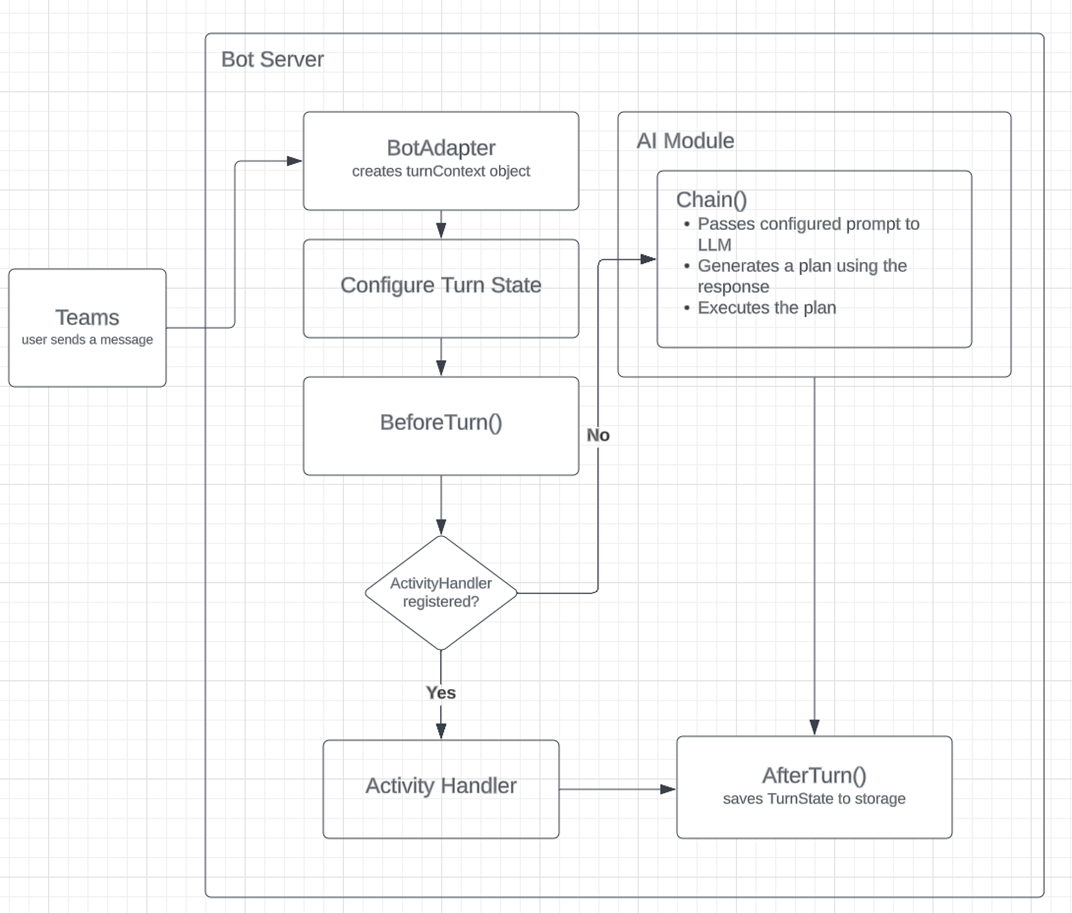
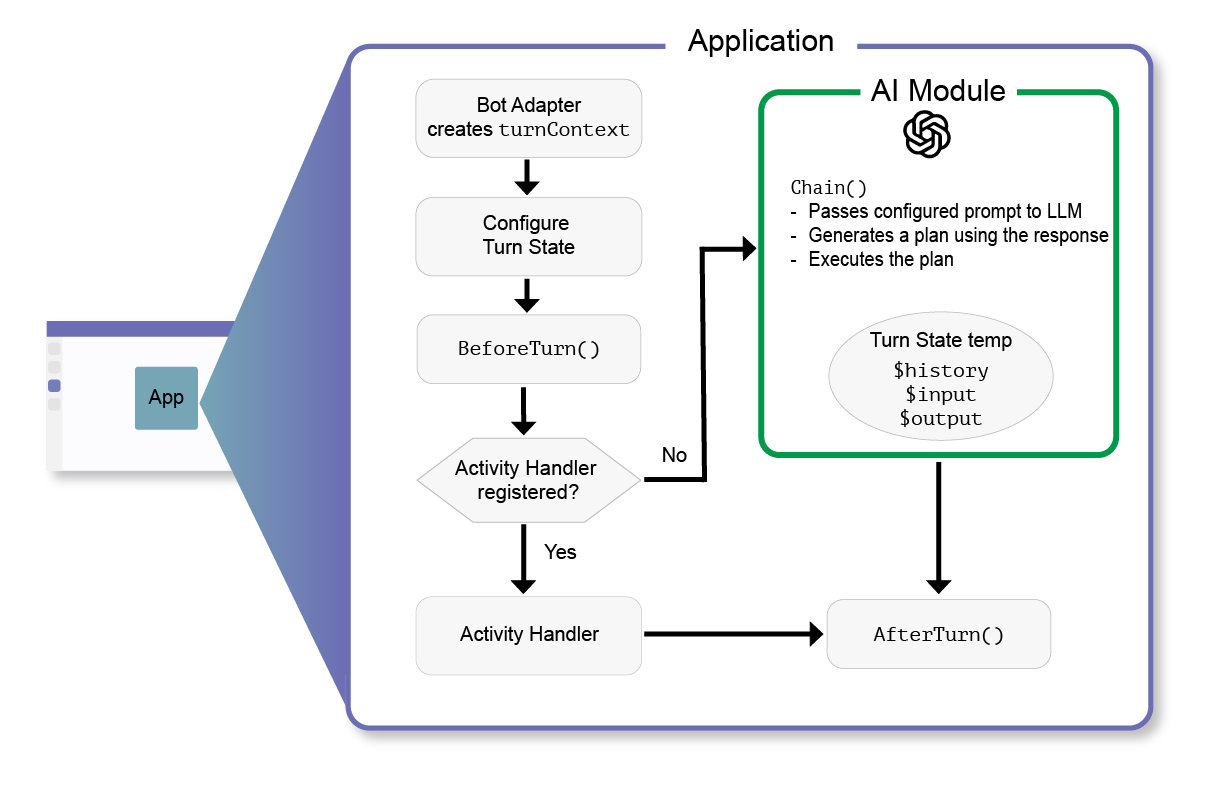
Move js files and edit dotnet

diff --git a/getting-started/dotnet/00.MIGRATION.md b/getting-started/dotnet/00.MIGRATION.md
@@ -1,67 +1,66 @@
 # Migrating from Botbuilder SDK to Teams AI.
 
-Previously, users developing bots for Teams and Microsoft 365 apps had to use the BotBuilder SDK directly. This SDK is designed to help you build bots that can interact with Teams and Microsoft 365 apps.
+Previously, users developing bots for Teams and Microsoft 365 apps used the BotBuilder SDK. The Teams-AI SDK is designed to help you build bots that can interact with Teams and Microsoft 365 apps.
 
-While one of the exciting features of this SDK is the AI support that customers will be able to migrate to, your team's first goals might be simply update your current bot without AI.
+While one of the exciting features of this SDK is the AI support that customers will be able to migrate to, your team's first goals might be simply to update your current bot without AI.
+
+> Please note: the formatting below does not necessarily follow traditional dotnet conventions. This was purposefully done to instantly viewing the differences easier.
 
 ### New activity handler class, Old activity handling method
 
 In the BotFramework SDK the Bot class extended the `TeamsActivityHandler` class. In Teams AI you will replace that with the `Application<TurnState, TurnStateManager>` class.
 
-_Old:_
-```C#
-public class EchoBot : TeamsActivityHandler { }
+```diff
+- public class EchoBot : TeamsActivityHandler { }
+
++ public class EchoBot : Application<TurnState, TurnStateManager> {
++
++    public EchoBot(ApplicationOptions<TurnState, TurnStateManager> options) : base(options) {}
++ }
 ```
 
-_New:_
-```C#
-public class EchoBot : Application<TurnState, TurnStateManager> {
+> The `TurnState` and `TurnStateManager` are classes that make up the turn state infrastructure. The generic types in the `Application` class allow users to customize the shape of the turn state.
 
-    public EchoBot(ApplicationOptions<TurnState, TurnStateManager> options) : base(options) {}
-
-}
-```
-
->The `TurnState` and `TurnStateManager` are classes that make up the turn state infrastructure. The generic types in the `Application` class allow users to customize the shape of the turn state.
-
-The activity handling method is the same for both `TeamsActivityHandler` and `Application` class, except for a few nuances. 
+The activity handling method is the same for both (previous) `TeamsActivityHandler` and (new) `Application` class, except for a few nuances. See below for more.
 
 #### New turn state parameter:
 
-_Old:_
-```C#
-protected virtual Task OnMessageActivityAsync(ITurnContext<IMessageActivity> turnContext, CancellationToken cancellationToken);
+`TState turnState` has been added as a parameter to `OnMessageActivityAsync`.
+
+```diff
+protected virtual Task OnMessageActivityAsync(
+    ITurnContext<IMessageActivity> turnContext,
++   TState turnState,
+    CancellationToken cancellationToken);
 ```
 
-_New:_
-```C#
-protected virtual Task OnMessageActivityAsync(ITurnContext<IMessageActivity> turnContext, TState turnState, CancellationToken cancellationToken);
+#### Drop the `Teams` prefix:
+
+`onTeamsChannelCreatedAsync` is modified to `OnChannelCreatedAsync`.
+
+```diff
+protected virtual Task
+-    OnTeamsChannelCreatedAsync(
++    OnChannelCreatedAsync(
+        ChannelInfo channelInfo,
+        TeamInfo teamInfo,
+        ITurnContext<IConversationUpdateActivity> turnContext,
+        TState turnState,
+        CancellationToken cancellationToken);
 ```
 
-#### Dropped the `Teams` prefix:
+#### Reorder parameters for consistency:
 
-_Old:_
-```C#
-protected virtual Task OnTeamsChannelCreatedAsync(ChannelInfo channelInfo, TeamInfo teamInfo, ITurnContext<IConversationUpdateActivity> turnContext, TState turnState, CancellationToken cancellationToken);
+> Note that in `OnSearchInvokeAsync`, the parameter `SearchInvokeValue: invokeValue` has been moved to the first parameter, to precede `ITurnContext<IInvokeActivity>: turnContext`. `CancellationToken cancellationToken` remains as the last parameter.
+
+```diff
+protected virtual Task<SearchInvokeResponse> OnSearchInvokeAsync(
+      SearchInvokeValue invokeValue,
+      ITurnContext<IInvokeActivity> turnContext,
++     TState turnState,
+      CancellationToken cancellationToken);
 ```
 
-_New:_
-```C#
-protected virtual Task OnChannelCreatedAsync(ChannelInfo channelInfo, TeamInfo teamInfo, ITurnContext<IConversationUpdateActivity> turnContext, TState turnState, CancellationToken cancellationToken);
-```
+For every activity handler method in the BotFramework SDK, users can replace it with a corresponding method in the `Application` class.
 
-#### Reordering parameters for consistency:
-
-_Old:_
-```C#
-protected virtual Task<SearchInvokeResponse> OnSearchInvokeAsync(ITurnContext<IInvokeActivity> turnContext, SearchInvokeValue invokeValue, CancellationToken cancellationToken);
-```
-
-_New:_
-```C#
-protected virtual Task<SearchInvokeResponse> OnSearchInvokeAsync(SearchInvokeValue invokeValue, ITurnContext<IInvokeActivity> turnContext, TState turnState, CancellationToken cancellationToken);
-```
-
-For every activity handler method in the BotFramework SDK users can replace it with a correspond method in the `Application` class.
-
-This is all it takes to port over to Teams AI.
+This is all it takes to port over to Teams AI!

diff --git a/getting-started/dotnet/01.CONCEPTS.md b/getting-started/dotnet/01.CONCEPTS.md
@@ -1,35 +1,64 @@
-### How an incoming activity is routed in the Application:
+# Concepts
 
-When an incomming activity reaches the server, the bot adapter handles the necessary authentication and creates a `TurnContext` object that encapsulates the activity details. It then calls the `OnTurnAsync` method. This is the entry point method of the application. Here's what happens in this method:
+See below to read more details about new concepts.
+
+## How an incoming activity is routed in the Application:
+
+When an incoming activity reaches the server, the bot adapter handles the necessary authentication and creates a `TurnContext` object that encapsulates the activity details. It then calls the `OnTurnAsync` method. This is the entry point method of the application. Here's what happens in this method:
 
 1. If configured in the application options, pulses of the `Typing` activity is sent to the user.
-2. If configured in the application options, the @mention is removed from the incomming message activity.
+2. If configured in the application options, the @mention is removed from the incoming message activity.
 3. The turn state is loaded using the configured turn state manager.
 4. The `OnBeforeTurnAsync` activity handler is executed. If it returns false, save turn state to storage.
 5. If the corresponding activity handler is configured, then it is executed. Otheriwse the AI module's `ChainAsync` executes.
 6. The `AfterTurnAsync` activity handler is executed. If it return true, save turn state to storage.
 
-These 6 steps happen every time an incomming activity is received by the server. 
+These six steps happen every time an incoming activity is received by the server.
 
 Here's a high level overview:
 
-![Alt text](./assets/image.png)
+![diagram of Teams AI application flow](../assets/image.png)
 
-<!-- 
-Fixes that need to be made to the diagram:
+1. The change in flow begins when an activity handler is not registered with the app. If that is the case, the turn context and turn state is passed to the AI module.
+1. The AI module will determine its response via the prompt (which may include conversation history)
+   - `app.ai.action('___', ...)` is the code for a specific action.
+1. The AI module generates a plan of actions on what to do with the response that was generated. (More details provided in <a href="#what-ties-the-ai-module-together-action-mapping> section)
+1. The module will execute those actions, and fill its response (`$output`) with the appropriate data.
+1. The response is passed to `AfterTurn`, which includes:
+   - `$history` - conversation history, the length (number of turns) of which is determined by the prompt configuration
+   - `$input` - the user's original input
+   - `$output` - the generated response by the AI
+1. `AfterTurn` is intended to be used for cleanup after the response has been sent.
 
-1. Change "Bot Server" to "Application"
-2. Change "Configure Turn State" to Load TurnState from storage.
-3. Beautify the diagram is it makes sense.
+## What ties the AI module together: Action Mapping
 
--->
+`ChainAsync` is utilized when the Planner recieves an input that did not trigger an activity handler, and instead generates and implements a plan. That plan is the list of directions that the LLM will follow according to the predicted action from the user's input. For example, in action mapping LightBot, the following excerpt is a section of the plan:
 
-<!-- ### What ties the AI module together: The `ChainAsync` method
+### Excerpt of LightBot prompt
 
-It would be a good idea to walk through how the steps the `ChainAsync` method takes for an incomming request from the light bot.
-1. The prompt that gets rendered.
-2. The model's response
-3. Show that the response is parsed into a Plan object - explain what a SAY/DO command is
+```txt
+The assistant must return the following JSON structure:
+
+{"type":"plan","commands":[{"type":"DO","action":"<name>","entities":{"<name>":<value>}},{"type":"SAY","response":"<response>"}]}
+
+The following actions are supported:
+
+- LightsOn
+- LightsOff
+- Pause time=<duration in ms>
+- LightStatus
+```
+
+### Description of LightBot prompt excerpt.
+
+1. The first two lines of directions asserts that the AI _must_ return its response in JSON format. This means that `$output` will return JSON, and therefore be parsable in a predictable way.
+   - The JSON provided is minified to reduce token ussage
+   - There are two types of commands: `DO` and `SAY`
+
+The commands are provided as an array to perform in order.
+
+- `DO` is an action defined by your code in `LightBotActions.cs`. These are programmatic methods not defined in natural language, but in your code.
+  - In the prompt above, the performable `DO` actions are `LightsOn`, `LightsOff`, `Pause`, and `LightStatus`
+- `SAY` is a response to add to the conversation, exactly like the response from a bot. At this point, the content
+
 4. Show the custom user registered actions executing.
-
-The goal with this section is to show a concrete example of what exactly is happening in the works. In the samples the model request and response is console-logged so it would be a good idea to show it here as well.

diff --git a/getting-started/js/02.API-REFERENCE.md b/getting-started/js/02.API-REFERENCE.md
@@ -1,0 +1,66 @@
+# API Reference
+
+> The teams-ai API matches [Semantic Kernel](https://github.com/microsoft/semantic-kernel/tree/main/samples/skills) prompt options.
+
+### Bot memory
+
+> Bot memory and AI memory are separate. Bot memory stores data for the bot to use, while AI memory stores AI data.
+
+- `$conversation.<prop>` - bot conversation memory
+- `$user.<prop>` - bot user memory
+- `$temp.<prop>` - bot temp memory (data kept for 1 turn only)
+  - `$<prop>` may be used as an alias for `$temp.<prop>`
+
+## AI memory (`$history`)
+
+> AI bot memory may store context/information for as little as 1 turn, while bot memory may be used to store information for the lifetime of the conversation.
+
+> Unlike bot memory, AI memory consumes tokens and therefore is more expensive, but keeping a shorter `$history` may cause more frequent hallucinations from the AI.
+
+- `$history` - conversation history tracked by AI (not related to bot's conversation history see [Bot memory](#bot-memory))
+- `$input` - input from the prompt, such as `activity.text`
+<!-- TODO: remove value once breaking change to reduce var length is completed -->
+- `$output` - the last executed function's output. You reference this output in code as `state.temp.value.output`
+- Hallucinatiion - when the AI creates an independant context/response that does not match the app's use-cases.
+- Parent prompt: when executing chaining, the output from the child prompt may be directly passed to the parent prompt:
+
+### Creating a function
+
+```js
+app.ai.prompts.addFunction("getUserName", async (context, state) => {
+  return context.activity.from.name;
+});
+```
+
+In your prompt(s) text file, reference the above function as `{{getUserName}}`
+
+### Chaining prompts
+
+```js
+app.ai.prompts.addFunction("translateInputToEnglish", app.ai.createSemanticFunction("translationPrompt"));
+```
+
+The child prompt passes its `$output` to the parent (`translationPrompt`)
+
+### Calling (prompt) function in code
+
+```js
+const result = await app.ai.completePrompt(context, state, "myPrompt");
+```
+
+### Using RegExp to match user input
+
+If, for example, a user wants to reset the conversation, a command like 'reset' may be created. However, there are any number of ways the user might call reset, as well as ways that the developer does not want to consider valid. The following is a fairly comprehensive RegExp that can cover many scenarios.
+
+RegExp: `
+For details and coverage on this regex, visit this [regex101 link](https://regex101.com/r/b5ZwAY/6) which covers and tests 'reset' and 'restart' inputs from the user.
+
+```js
+const resetRegex = `/^(?:.*\s)?\/(reset|restart)|^(reset|restart)\(?\)?$/i`;
+app.message(resetRegex, async (context, state) => {
+  state.conversation.delete();
+  await context.sendActivity(`Ok I have deleted the conversation history.`);
+});
+```
+
+You may replace `reset|restart` with whatever word(s) desired, of course. Usage of regex is not required, but may be helpful in covering many scenarios that result in the same action.

diff --git a/getting-started/js/01.GPT-SETUP.md b/getting-started/js/01.GPT-SETUP.md
@@ -1,0 +1,51 @@
+# Getting started with bots and GPT
+
+This guide is intended to help you get started with bots and GPT. It is not intended to be a comprehensive guide, but rather a conglamerate of tips that most bots moving to GPT will require.
+
+**Please note, you will need to install node v16.x**
+
+## Private Preview
+
+Since this SDK is still under private preview, there will be instances of breaking changes of the SDK that will require updating your bot/project. Here is an example:
+
+- [Remove `.value` from state context variable names](https://github.com/microsoft/teams-ai/issues/49)
+- To find the up-to-date list, use the [breaking changes](https://github.com/microsoft/teams-ai/issues?q=is%3Aissue+is%3Aopen+label%3Abreaking-change) tag for more information. Once the SDK has those changes, customers will be able to update their bots.
+
+## GPT Setup
+
+Once you have a basic bot setup, it is time to prepare the bot for GPT usage.
+
+To use OpenAI's GPT, first create your OpenAI API key using the [OpenAI documentation](https://platform.openai.com/) and storing that key in your .env file:
+
+```sh
+MICROSOFT_APP_ID=app-id
+MICROSOFT_APP_PASSWORD=app-password
+OPENAI_API_KEY=new-OpenAI-Key
+```
+
+Next is to set up the GPT prediction, called `OpenAIPlanner` in this SDK. Check out [OpenAI documentation](https://platform.openai.com/docs/introduction) to get familiar with common terms that are also used in this SDK, e.g. 'prompt', 'tokens', etc.
+
+```js
+// Create prediction engine
+const planner = new OpenAIPlanner({ /* GPT config settings */});
+
+// create the prompt manager
+// Prompt Mnanager directs to the prompts folder
+const promptManager = new PromptManager((path.join(__dirname, `../src/prompts`));
+```
+
+The `ai` object is passed into the Application, which should recieve the two components above, as well as the default prompt.
+
+```js
+const app = new Application({
+  storage,
+  ai: {
+    planner,
+    promptManager,
+    prompt: "defaultPrompt"
+    // ... other options
+  }
+});
+```
+
+For information on how to create and use prompts, see [APIREFERENCE](./02.API-REFERENCE.md).
